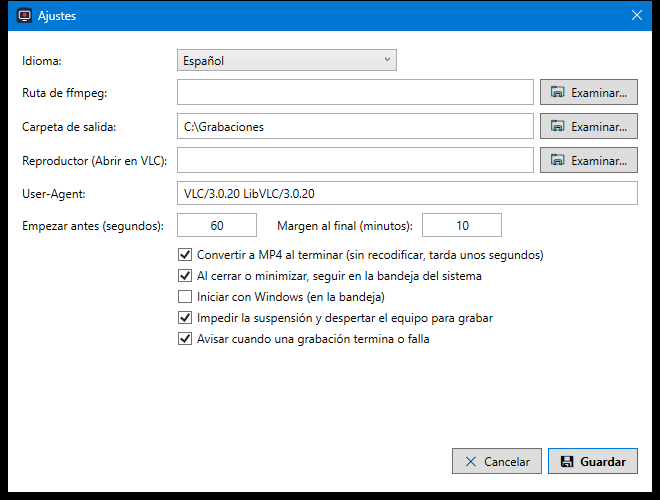
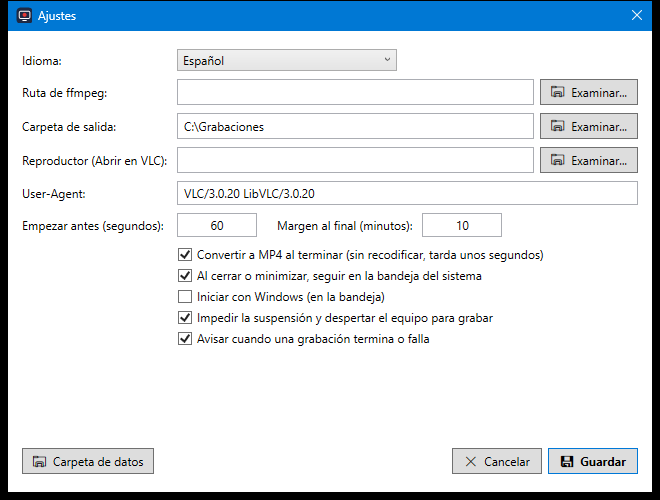
Write a log file
The status bar only keeps the last line, so an overnight failure left no
trace. Everything that reaches the status bar now also goes to
%APPDATA%\IptvRecorder\iptv-recorder.log, along with startup (including
which ffmpeg was resolved), shutdown, and one structured line per finished
or failed recording. The file rotates at 1 MB keeping the previous one.

Settings gains a button that opens the data folder with the log selected.

Claude-Session: https://claude.ai/code/session_01PLmKPQmk7RKYaSJT1D6BU3

Changed region(s): [[0.0303, 0.87, 0.2424, 0.96]]

diff --git a/SettingsWindow.xaml b/SettingsWindow.xaml
@@ -83,10 +83,15 @@
         <CheckBox x:Name="NotifyBox" Grid.Row="10" Grid.Column="1" Grid.ColumnSpan="2"
                   Content="{DynamicResource Set_Notify}" ToolTip="{DynamicResource Set_Notify_Tip}"/>
 
-        <StackPanel Grid.Row="12" Grid.Column="0" Grid.ColumnSpan="3" Orientation="Horizontal" HorizontalAlignment="Right">
-            <Button Content="{DynamicResource Btn_Cancel}" IsCancel="True" local:Icon.Glyph="&#xE711;"/>
-            <Button Content="{DynamicResource Btn_Save}" IsDefault="True" Click="Save_Click" FontWeight="Bold"
-                    local:Icon.Glyph="&#xE74E;"/>
-        </StackPanel>
+        <Grid Grid.Row="12" Grid.Column="0" Grid.ColumnSpan="3">
+            <Button HorizontalAlignment="Left" Margin="0,4" Content="{DynamicResource Btn_DataFolder}"
+                    Click="OpenDataFolder_Click" ToolTip="{DynamicResource Btn_DataFolder_Tip}"
+                    local:Icon.Glyph="&#xEC50;"/>
+            <StackPanel Orientation="Horizontal" HorizontalAlignment="Right">
+                <Button Content="{DynamicResource Btn_Cancel}" IsCancel="True" local:Icon.Glyph="&#xE711;"/>
+                <Button Content="{DynamicResource Btn_Save}" IsDefault="True" Click="Save_Click" FontWeight="Bold"
+                        local:Icon.Glyph="&#xE74E;"/>
+            </StackPanel>
+        </Grid>
     </Grid>
 </Window>

diff --git a/Strings/Strings.es.xaml b/Strings/Strings.es.xaml
@@ -147,6 +147,8 @@
     <sys:String x:Key="Set_Notify_Tip">Muestra un aviso junto al reloj. Al pulsarlo se abre la carpeta con el archivo.</sys:String>
     <sys:String x:Key="Notify_Done">Grabación terminada</sys:String>
     <sys:String x:Key="Notify_Failed">Grabación fallida</sys:String>
+    <sys:String x:Key="Btn_DataFolder">Carpeta de datos</sys:String>
+    <sys:String x:Key="Btn_DataFolder_Tip">Abre la carpeta con el registro, los ajustes y los favoritos</sys:String>
     <sys:String x:Key="Btn_Cancel">Cancelar</sys:String>
     <sys:String x:Key="Btn_Save">Guardar</sys:String>
     <sys:String x:Key="Set_Detected">Detectado automáticamente: {0}</sys:String>

diff --git a/Strings/Strings.en.xaml b/Strings/Strings.en.xaml
@@ -147,6 +147,8 @@
     <sys:String x:Key="Set_Notify_Tip">Shows a notification next to the clock. Clicking it opens the folder with the file.</sys:String>
     <sys:String x:Key="Notify_Done">Recording finished</sys:String>
     <sys:String x:Key="Notify_Failed">Recording failed</sys:String>
+    <sys:String x:Key="Btn_DataFolder">Data folder</sys:String>
+    <sys:String x:Key="Btn_DataFolder_Tip">Opens the folder with the log, the settings and the favourites</sys:String>
     <sys:String x:Key="Btn_Cancel">Cancel</sys:String>
     <sys:String x:Key="Btn_Save">Save</sys:String>
     <sys:String x:Key="Set_Detected">Detected automatically: {0}</sys:String>

diff --git a/MainWindow.xaml.cs b/MainWindow.xaml.cs
@@ -80,6 +80,10 @@ public partial class MainWindow : Window
         var cached = Store.LoadChannelsCache();
         if (cached != null) ApplyChannels(M3uParser.Parse(cached), fromCache: true);
 
+        AppLog.Write($"--- Inicio. ffmpeg: {RecordingScheduler.ResolveFfmpeg(_settings.FfmpegPath) ?? "no encontrado"}"
+                     + $" | salida: {_settings.OutputFolder}"
+                     + $" | grabaciones pendientes: {_recordings.Count(r => r.Status == RecordingStatus.Pending)}");
+
         if (RecordingScheduler.ResolveFfmpeg(_settings.FfmpegPath) == null)
             SetStatus(Loc.Get("Status_FfmpegMissing"));
 
@@ -578,6 +582,7 @@ public partial class MainWindow : Window
     private void SetStatus(string msg)
     {
         StatusText.Text = $"{DateTime.Now:HH:mm:ss}  {msg}";
+        AppLog.Write(msg);
     }
 
     // ---------- Bandeja del sistema ----------
@@ -607,6 +612,10 @@ public partial class MainWindow : Window
     /// al día siguiente. Al pulsar el aviso se abre la carpeta con el archivo.</summary>
     private void NotifyFinished(Recording r)
     {
+        AppLog.Write($"{r.Status.ToString().ToUpperInvariant()}: \"{r.Title}\" | canal: {r.ChannelName}"
+                     + $" | inicio: {r.Start:yyyy-MM-dd HH:mm} | {r.DurationMinutes} min"
+                     + $" | archivo: {(r.OutputFile.Length > 0 ? r.OutputFile : "-")} | {r.LastLog}");
+
         if (!_settings.Notifications || _tray == null) return;
 
         _lastNotified = r;
@@ -684,6 +693,7 @@ public partial class MainWindow : Window
 
     private void Shutdown()
     {
+        AppLog.Write("--- Salida");
         _exiting = true;
         _external.Stop();
         _preview?.Dispose();

diff --git a/AppLog.cs b/AppLog.cs
@@ -1,0 +1,49 @@
+using System.IO;
+using System.Text;
+
+namespace IptvRecorder;
+
+/// <summary>
+/// Registro en disco de lo que va pasando. La barra de estado solo guarda la última
+/// línea, así que sin esto un fallo de madrugada no deja rastro que consultar.
+///
+/// Un único archivo que se rota al llegar a 1 MB, conservando el anterior.
+/// </summary>
+public static class AppLog
+{
+    private static readonly object Sync = new();
+    private static readonly string Path1 = System.IO.Path.Combine(Store.Dir, "iptv-recorder.log");
+    private static readonly string Path2 = System.IO.Path.Combine(Store.Dir, "iptv-recorder.1.log");
+    private const long MaxBytes = 1_000_000;
+
+    public static string FilePath => Path1;
+
+    public static void Write(string message)
+    {
+        lock (Sync)
+        {
+            try
+            {
+                Directory.CreateDirectory(Store.Dir);
+                Rotate();
+                File.AppendAllText(
+                    Path1,
+                    $"{DateTime.Now:yyyy-MM-dd HH:mm:ss}  {message}{Environment.NewLine}",
+                    Encoding.UTF8);
+            }
+            catch { }
+        }
+    }
+
+    private static void Rotate()
+    {
+        try
+        {
+            var info = new FileInfo(Path1);
+            if (!info.Exists || info.Length < MaxBytes) return;
+            if (File.Exists(Path2)) File.Delete(Path2);
+            File.Move(Path1, Path2);
+        }
+        catch { }
+    }
+}

diff --git a/SettingsWindow.xaml.cs b/SettingsWindow.xaml.cs
@@ -1,3 +1,4 @@
+using System.Diagnostics;
 using System.IO;
 using System.Windows;
 using Microsoft.Win32;
@@ -83,6 +84,24 @@ public partial class SettingsWindow : Window
             SelectedPath = Directory.Exists(OutputBox.Text) ? OutputBox.Text : "",
         };
         if (dlg.ShowDialog() == WinForms.DialogResult.OK) OutputBox.Text = dlg.SelectedPath;
+    }
+
+    /// <summary>Abre la carpeta de datos con el registro seleccionado, que es lo que se
+    /// busca cuando una grabación ha fallado.</summary>
+    private void OpenDataFolder_Click(object sender, RoutedEventArgs e)
+    {
+        try
+        {
+            Directory.CreateDirectory(Store.Dir);
+            if (File.Exists(AppLog.FilePath))
+                Process.Start("explorer.exe", $"/select,\"{AppLog.FilePath}\"");
+            else
+                Process.Start(new ProcessStartInfo(Store.Dir) { UseShellExecute = true });
+        }
+        catch (Exception ex)
+        {
+            MessageBox.Show(this, ex.Message, Loc.Get("Settings_Title"), MessageBoxButton.OK, MessageBoxImage.Warning);
+        }
     }
 
     private void Save_Click(object sender, RoutedEventArgs e)

diff --git a/TODO.md b/TODO.md
@@ -53,11 +53,12 @@ Lista de mejoras por orden de prioridad.
   idioma elegido coincide con el de Windows se conserva la cultura del sistema, para no
   perder las preferencias regionales del usuario.
 
-## Siguientes
-
-- [ ] **8. Registro en archivo**
-  Hoy un fallo solo deja una línea en la columna Detalle. Un log en disco permite
-  saber qué pasó en una grabación de madrugada.
+- [x] **8. Registro en archivo**
+  `AppLog.cs` escribe en `%APPDATA%\IptvRecorder\iptv-recorder.log` todo lo que pasa por
+  la barra de estado, más el arranque (con la ruta de ffmpeg que se resolvió), la salida
+  y una línea estructurada por cada grabación terminada o fallida. Rota al llegar a 1 MB
+  conservando el archivo anterior. En Ajustes hay un botón que abre la carpeta de datos
+  con el registro ya seleccionado.
 
 ## Proyecto grande
 

diff --git a/README.md b/README.md
@@ -78,4 +78,4 @@ Para añadir otro idioma: copia `Strings\Strings.en.xaml` como `Strings\Strings.
 
 ## Datos
 
-Ajustes, grabaciones programadas, caché de la lista y logotipos descargados se guardan en `%APPDATA%\IptvRecorder`. Se puede borrar esa carpeta sin miedo: la app la vuelve a crear.
+Ajustes, grabaciones programadas, favoritos, caché de la lista, logotipos descargados y el registro (`iptv-recorder.log`) se guardan en `%APPDATA%\IptvRecorder`. El botón **Carpeta de datos** en Ajustes la abre con el registro seleccionado, que es lo que hay que mirar cuando una grabación falla de madrugada. Se puede borrar esa carpeta sin miedo: la app la vuelve a crear.
